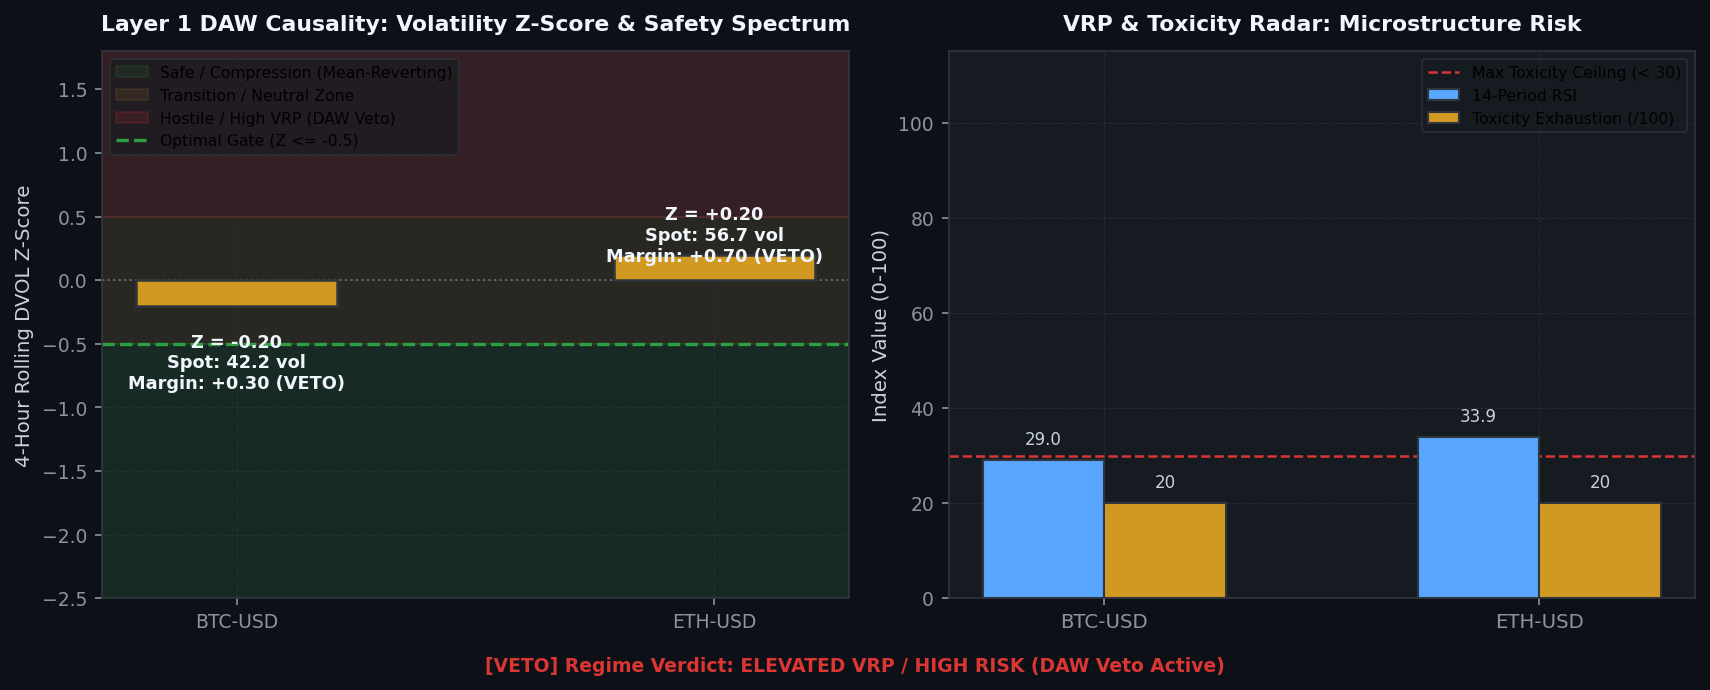
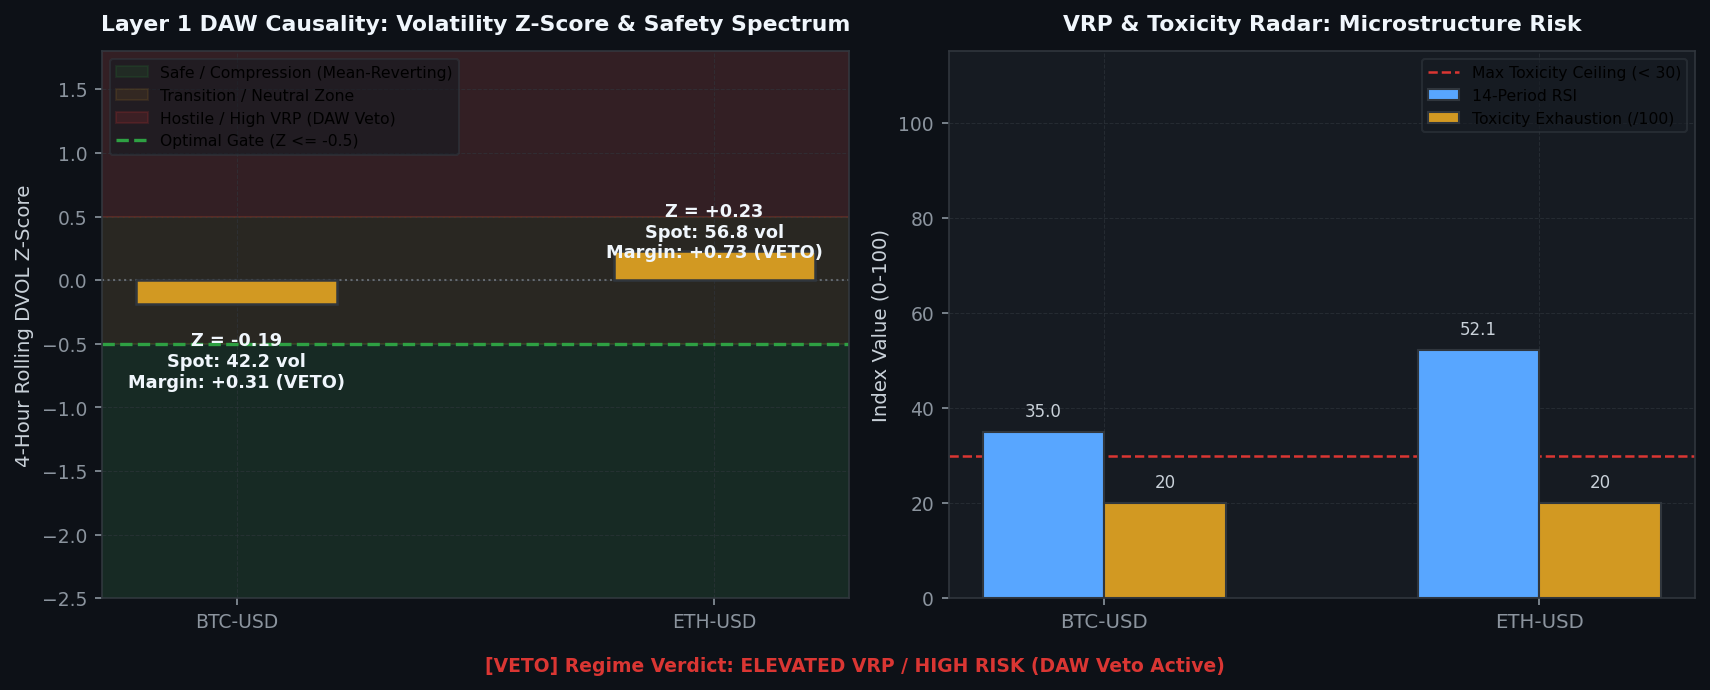
[coinbase] Hourly Status & Visual Intelligence Update: 2026-08-22 01:05:07

diff --git a/coinbase/data/hourly_status_report.md b/coinbase/data/hourly_status_report.md
@@ -3,7 +3,7 @@ layout: default
 ---
 
 # 🛡 Unified Trading System Hourly Status & Visual Intelligence
-> **Report Generated**: `2026-08-22 01:00:05 AM PDT (2026-08-22 08:00:05 UTC)`  
+> **Report Generated**: `2026-08-22 01:04:49 AM PDT (2026-08-22 08:04:49 UTC)`  
 > **System Health**: **🟡 DEGRADED / RESTRICTED** | **Win Rate**: `0.0%` | **Completed Trades**: `0`
 
 
@@ -15,13 +15,13 @@ Real-time Deribit implied volatility (DVOL) proxy tracking against mathematicall
 
 | Symbol | Proxy Oracle | Live Z-Score | Optimal Limit (YSP) | Safety Margin | Live VRP | Optimal VRP (YSP) | DAW Safety Verdict |
 | :--- | :--- | :--- | :--- | :--- | :--- | :--- | :--- |
-| `AVAX-USD` | DVOL_BTC | **-0.20** | **-0.50** | **+0.30** | **-48.69** | 5.0 | 🔴 DAW VETOED |
-| `ETH-USD` | DVOL_ETH | **+0.20** | **-0.50** | **+0.70** | **-34.17** | 5.0 | 🔴 DAW VETOED |
-| `ADA-USD` | DVOL_BTC | **-0.20** | **-0.50** | **+0.30** | **-48.69** | 5.0 | 🔴 DAW VETOED |
-| `DOGE-USD` | DVOL_BTC | **-0.20** | **-0.50** | **+0.30** | **-48.69** | 5.0 | 🔴 DAW VETOED |
-| `BTC-USD` | DVOL_BTC | **-0.20** | **-0.50** | **+0.30** | **-48.69** | 5.0 | 🔴 DAW VETOED |
-| `LINK-USD` | DVOL_BTC | **-0.20** | **-0.50** | **+0.30** | **-48.69** | 5.0 | 🔴 DAW VETOED |
-| `SOL-USD` | DVOL_BTC | **-0.20** | **-0.50** | **+0.30** | **-48.69** | 5.0 | 🔴 DAW VETOED |
+| `AVAX-USD` | DVOL_BTC | **-0.18** | **-0.50** | **+0.32** | **-48.62** | 5.0 | 🔴 DAW VETOED |
+| `ETH-USD` | DVOL_ETH | **+0.23** | **-0.50** | **+0.73** | **-34.08** | 5.0 | 🔴 DAW VETOED |
+| `ADA-USD` | DVOL_BTC | **-0.18** | **-0.50** | **+0.32** | **-48.62** | 5.0 | 🔴 DAW VETOED |
+| `DOGE-USD` | DVOL_BTC | **-0.18** | **-0.50** | **+0.32** | **-48.62** | 5.0 | 🔴 DAW VETOED |
+| `BTC-USD` | DVOL_BTC | **-0.18** | **-0.50** | **+0.32** | **-48.62** | 5.0 | 🔴 DAW VETOED |
+| `LINK-USD` | DVOL_BTC | **-0.18** | **-0.50** | **+0.32** | **-48.62** | 5.0 | 🔴 DAW VETOED |
+| `SOL-USD` | DVOL_BTC | **-0.18** | **-0.50** | **+0.32** | **-48.62** | 5.0 | 🔴 DAW VETOED |
 
 
 
@@ -37,12 +37,12 @@ We hereby certify that the mission-critical algorithmic data assets uploaded by 
 
 | Status | Data Asset | Freshness / State | Details / Timestamp |
 | :---: | :--- | :--- | :--- |
-| ✅ | **Go-List JSON** | Fresh (15.81h old) | 08-21 09:11 |
-| ✅ | **TimesFM Forecasts** | Fresh (0.97h old) | 08-22 00:02 |
-| ✅ | **Holding Times config** | Fresh (15.96h old) | 08-21 09:02 |
-| ✅ | **BTC DVOL Cache** | Fresh (0.00h old) | 08-22 00:59 |
-| ✅ | **ETH DVOL Cache** | Fresh (0.00h old) | 08-22 01:00 |
-| ✅ | **Live Trading Telemetry** | Fresh (0.00h old) | 08-22 01:00 |
+| ✅ | **Go-List JSON** | Fresh (15.89h old) | 08-21 09:11 |
+| ✅ | **TimesFM Forecasts** | Fresh (1.05h old) | 08-22 00:02 |
+| ✅ | **Holding Times config** | Fresh (16.04h old) | 08-21 09:02 |
+| ✅ | **BTC DVOL Cache** | Fresh (0.00h old) | 08-22 01:04 |
+| ✅ | **ETH DVOL Cache** | Fresh (0.00h old) | 08-22 01:04 |
+| ✅ | **Live Trading Telemetry** | Fresh (0.00h old) | 08-22 01:04 |
 
 <br>
 
@@ -55,7 +55,7 @@ Layer-by-layer tick evaluation waterfall and asset-specific performance tracking
 
 | Funnel Filter Layer | Total Rejections | % of Rejections |
 | :--- | :--- | :--- |
-| Tier 1: Macro Volatility Tensor Gate (Omega_macro) | `10,054` | **100.0%** |
+| Tier 1: Macro Volatility Tensor Gate (Omega_macro) | `10,152` | **100.0%** |
 | Tier 2: Unified Transport & Directional Engine | `0` | **0.0%** |
 | Tier 3: Continuous Hawkes-SFGK Pricer (HAS-Pricer) | `0` | **0.0%** |
 | System: Asset Cooldown Active | `0` | **0.0%** |
@@ -95,12 +95,12 @@ Weekly Algorithmic Mega Cap selection, Zero-shot multi-step forward return forec
 
 - **TimesFM Forecast DB**: 🟢 Updated 1.0h ago (2026-08-22 12:02 AM PDT)
 - **Last Weekly VSTEF Optimization**: `2026-08-05 09:22:38 AM PDT`
-- **Next Scheduled VSTEF Run**: `2026-08-23 07:00:00 PM PDT (Monday 02:00 UTC)` (Countdown: **42.0h (1d 17h 59m)**)
+- **Next Scheduled VSTEF Run**: `2026-08-23 07:00:00 PM PDT (Monday 02:00 UTC)` (Countdown: **41.9h (1d 17h 55m)**)
 - **Promoted Parameter Gates**: $Z_{DVOL} \le -0.5$ | Holding Horizon $= 12\text{h}$
 
 ### Algorithmic Mega Cap Selection
 - **Last Run (Confirmation)**: `2026-08-21 09:11:23 AM PDT`
-- **Next Scheduled Run**: `2026-08-23 06:00:00 PM PDT (Monday 01:00 UTC)` (Countdown: **41.0h (1d 16h 59m)**)
+- **Next Scheduled Run**: `2026-08-23 06:00:00 PM PDT (Monday 01:00 UTC)` (Countdown: **40.9h (1d 16h 54m)**)
 - **Selected Mega Cap Universe**: `BTC, BCH, AVAX, ETH, ALGO, ADA, LTC, DOGE, AAVE, LINK, DOT, HBAR`
 
 
@@ -114,19 +114,19 @@ Visualizing the impact of the VSTEF (Volatility-Synchronized Stop-Tightening Exe
 ## 5. 🖥 Multi-Node Infrastructure & Watchdog Matrix
 ```text
 ================================================================================
-   🛡  SFGK FUNNEL GUARDIAN WATCHDOG (HFT ONLY) |  08:00:06 AM
-   CPU:   3.9%  |  MEM:   5.2% (14.6GB / 15.4GB Free)
+   🛡  SFGK FUNNEL GUARDIAN WATCHDOG (HFT ONLY) |  08:04:47 AM
+   CPU:  14.1%  |  MEM:   6.3% (14.5GB / 15.4GB Free)
 ================================================================================
 SERVICE              | PID      | STATUS          | RESTARTS | INFO
 --------------------------------------------------------------------------------
 L3 Consumer          | 3653376  | RUNNING         | -        | Continuous Websocket Feed
-Trader AVAX-USD      | 3665698  | COOL-DOWN       | 40       | Next run in 4.6s
-Trader ETH-USD       | 3665699  | COOL-DOWN       | 40       | Next run in 4.6s
-Trader ADA-USD       | 3665700  | COOL-DOWN       | 40       | Next run in 4.6s
-Trader DOGE-USD      | 3665701  | COOL-DOWN       | 40       | Next run in 4.6s
-Trader BTC-USD       | 3665702  | COOL-DOWN       | 40       | Next run in 4.6s
-Trader LINK-USD      | 3665703  | COOL-DOWN       | 40       | Next run in 4.6s
-Trader SOL-USD       | 3665704  | COOL-DOWN       | 40       | Next run in 4.6s
+Trader AVAX-USD      | 3670368  | RUNNING         | 54       | Evaluating Funnel/Polling Order
+Trader ETH-USD       | 3670369  | RUNNING         | 54       | Evaluating Funnel/Polling Order
+Trader ADA-USD       | 3670370  | RUNNING         | 54       | Evaluating Funnel/Polling Order
+Trader DOGE-USD      | 3670371  | RUNNING         | 54       | Evaluating Funnel/Polling Order
+Trader BTC-USD       | 3670372  | RUNNING         | 54       | Evaluating Funnel/Polling Order
+Trader LINK-USD      | 3670373  | RUNNING         | 54       | Evaluating Funnel/Polling Order
+Trader SOL-USD       | 3670374  | RUNNING         | 54       | Evaluating Funnel/Polling Order
 ================================================================================
 ```
 

diff --git a/coinbase/data/visual_intelligence.md b/coinbase/data/visual_intelligence.md
@@ -4,7 +4,7 @@ title: Visual Intelligence Gallery
 ---
 
 # 📈 Visual Intelligence Gallery
-> **Generated:** `2026-08-22 01:00:23`
+> **Generated:** `2026-08-22 01:05:06`
 > **[Return to Main Status Report](./hourly_status_report.html)**
 
 This page visualizes the internal states, market profiles, and decision criteria of the active **3-Tier Fused Decision Engine** across all layers.
